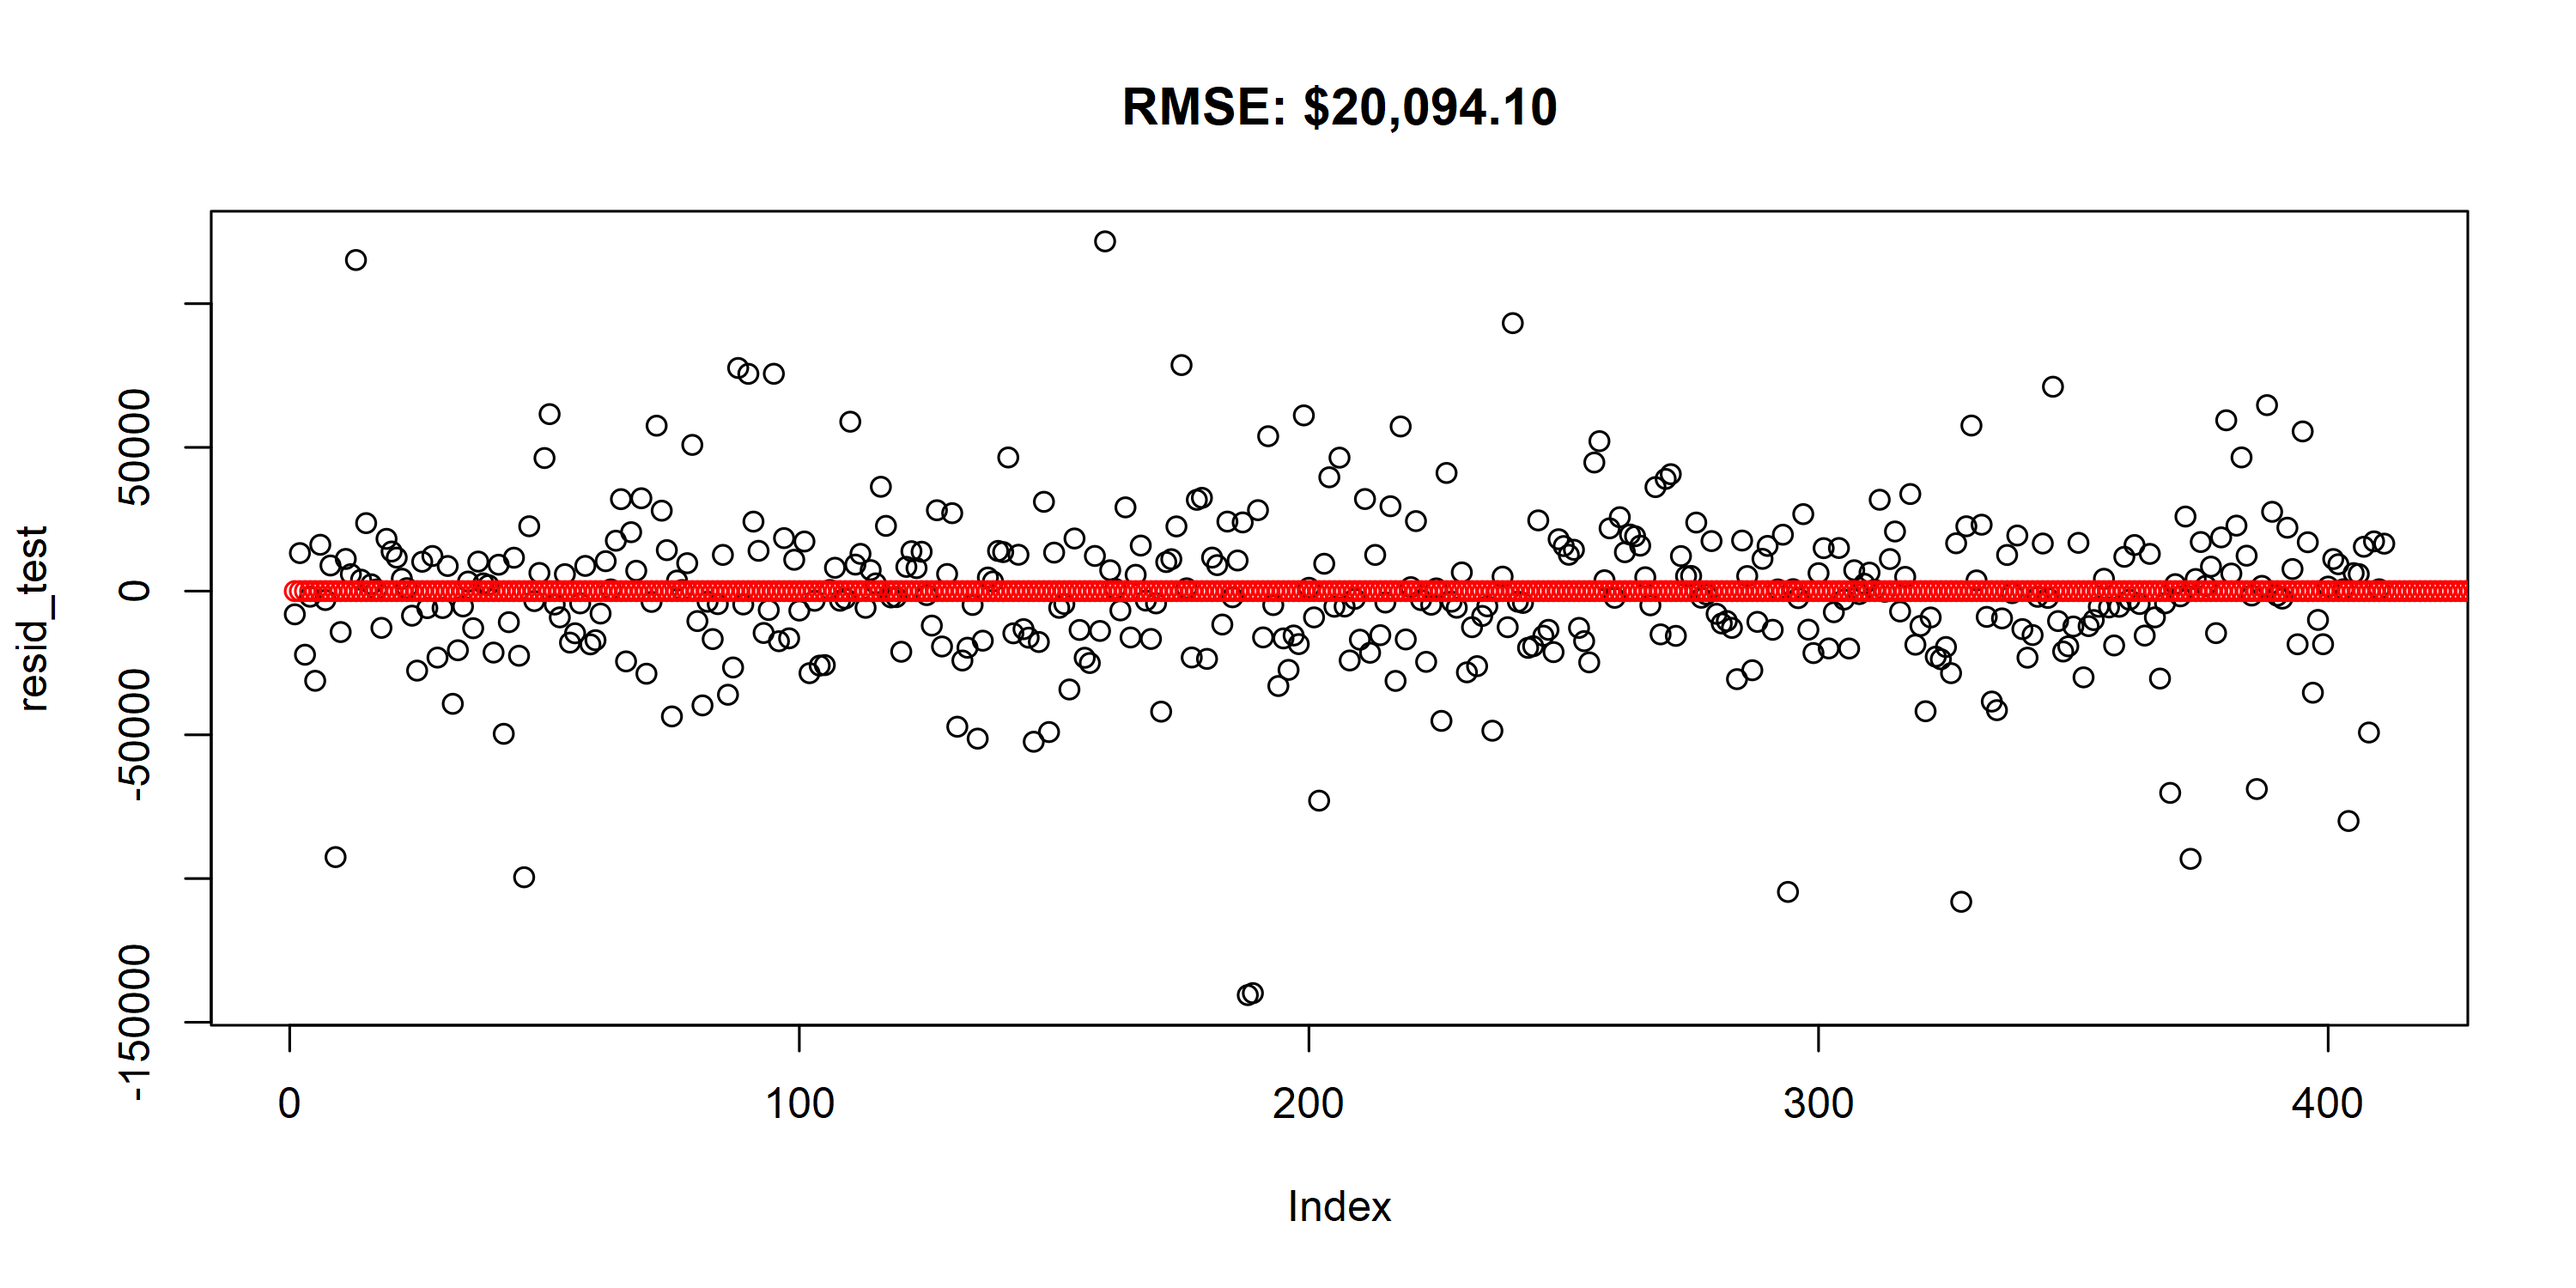
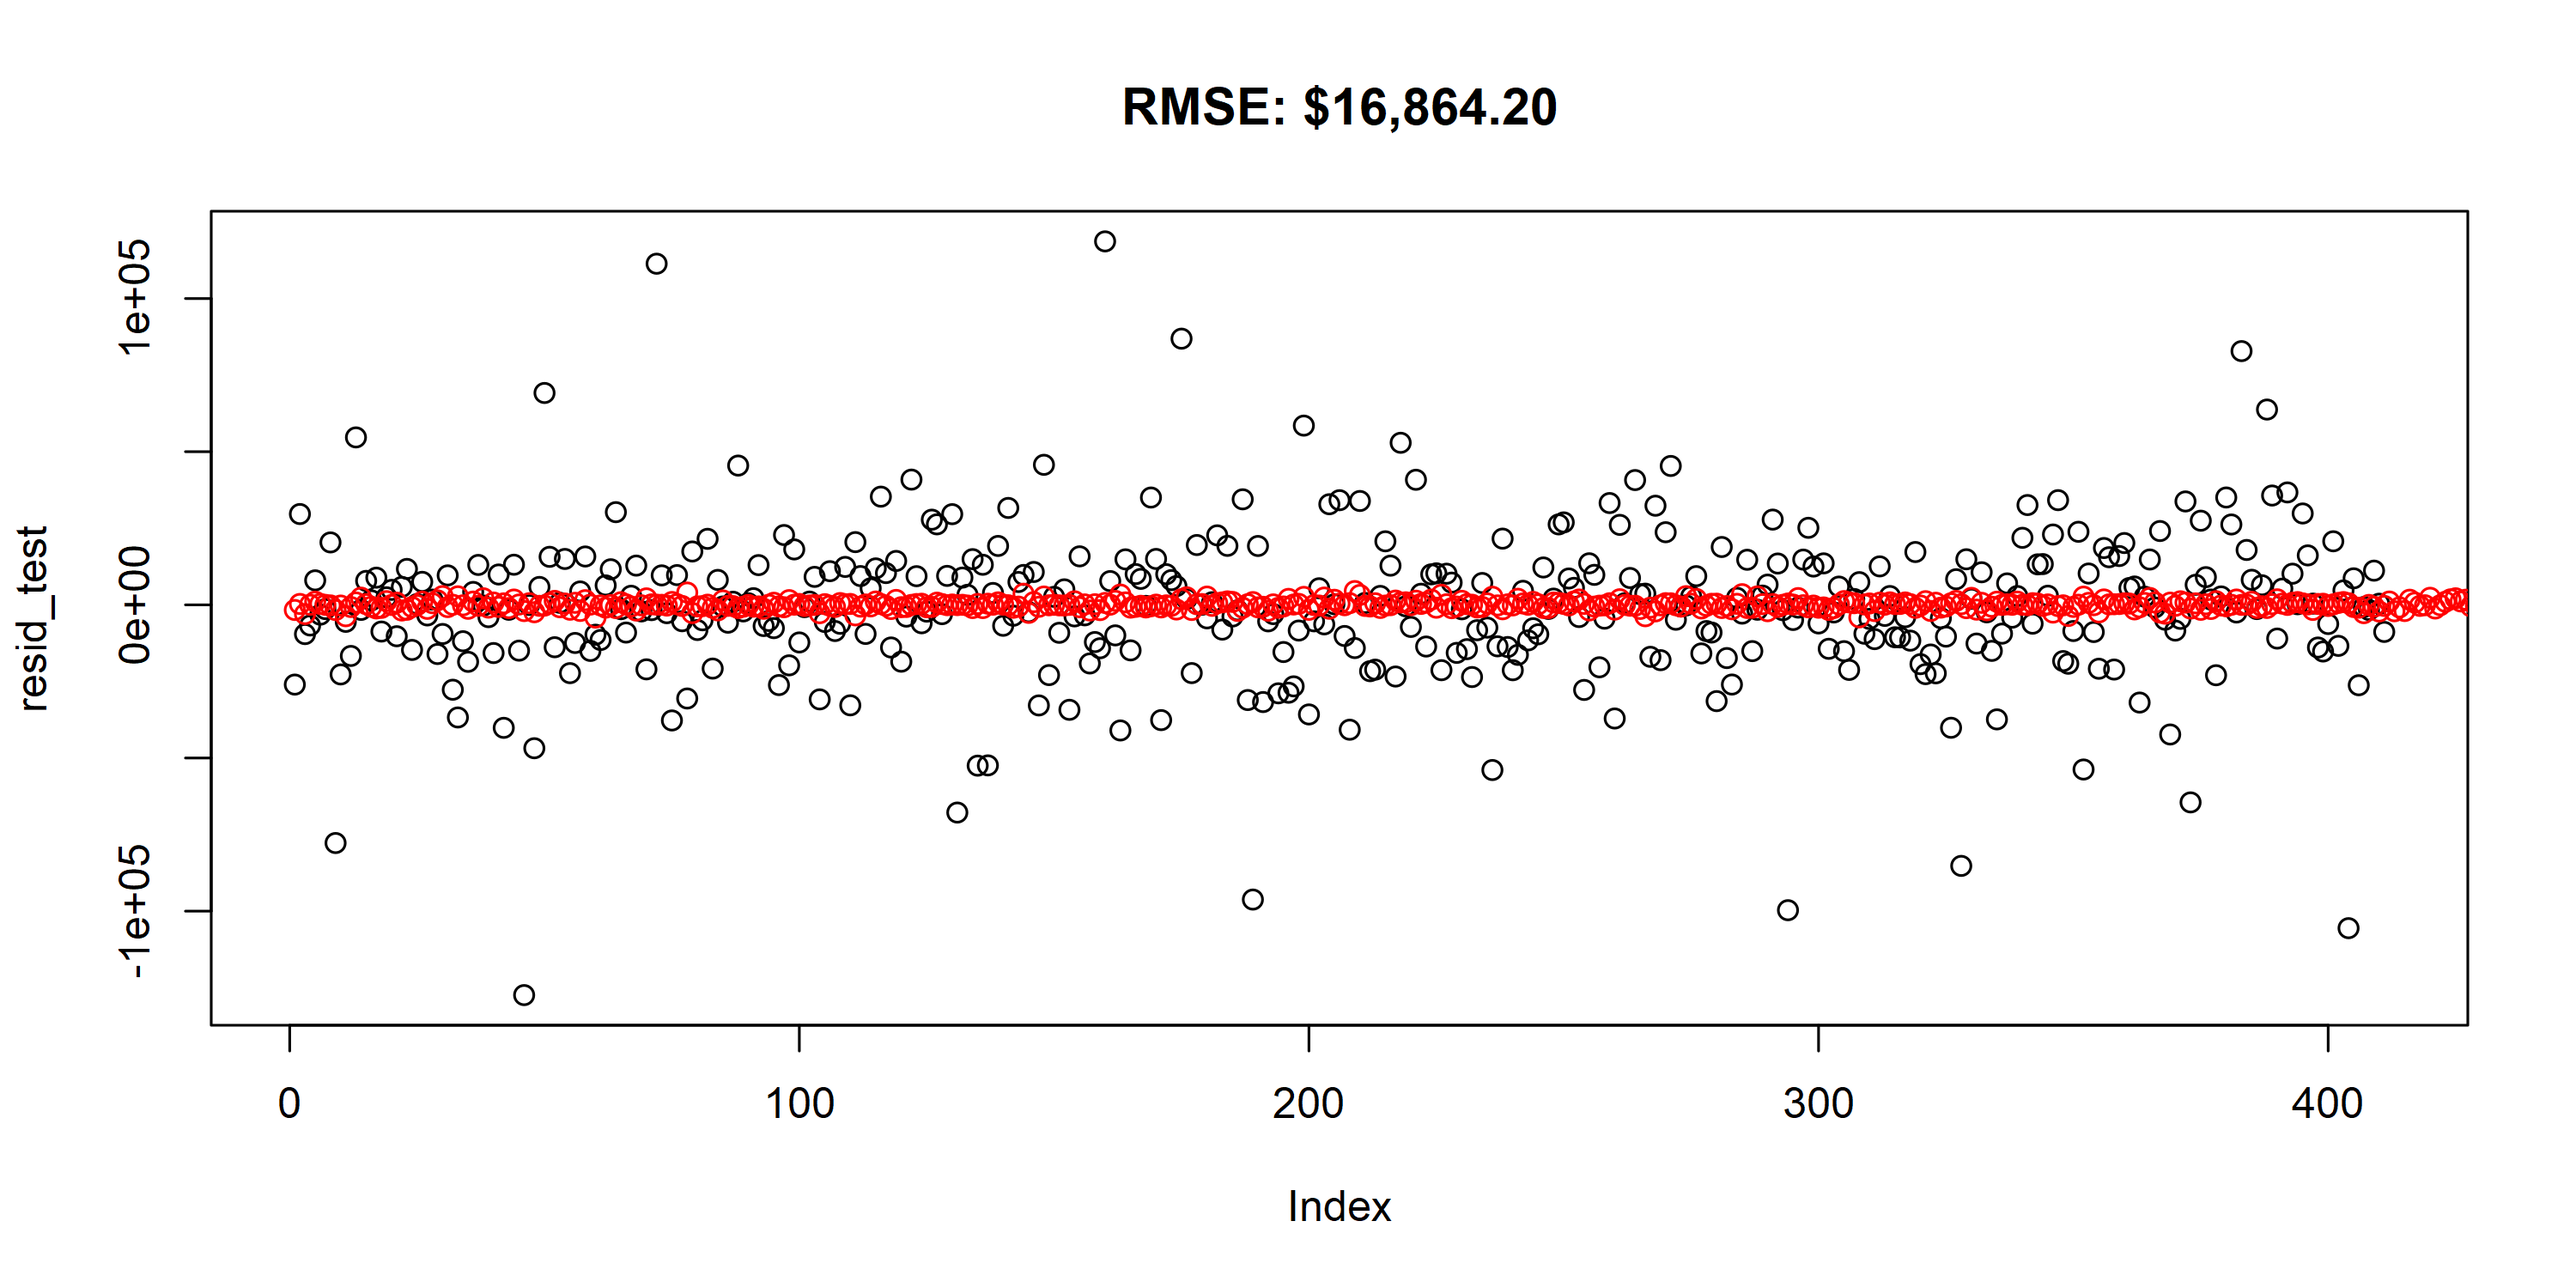
update xgb parameters and render rmd

diff --git a/submissions/alec_wong/readme.md b/submissions/alec_wong/readme.md
@@ -369,18 +369,6 @@ ggmap(ames_ia_map) +
   map(.x = n_points, .f = ~geom_text(data = .x , aes(x = mean(X), y = mean(Y), label = .y)))
 ```
 
-    Warning in min(x): no non-missing arguments to min; returning Inf
-
-    Warning in max(x): no non-missing arguments to max; returning -Inf
-
-    Warning in min(x): no non-missing arguments to min; returning Inf
-
-    Warning in max(x): no non-missing arguments to max; returning -Inf
-
-    Warning: Removed 10 rows containing missing values (geom_text).
-    
-    Warning: Removed 10 rows containing missing values (geom_text).
-
 ![](output/figures/unnamed-chunk-7-1.png)<!-- -->
 
 Evidently polygon definitions for the neighborhoods isn’t as easily
@@ -480,7 +468,7 @@ format the input properly.
 
 ``` r
 xgb = xgboost(data = mm_train, label = train_data$SalePrice, nrounds = 500, early_stopping_rounds = 10,
-              max_depth = 12, subsample = 0.5, verbose = 0)
+              max_depth = 3, subsample = 1, verbose = 0)
 ```
 
 ``` r
@@ -488,15 +476,15 @@ xgb
 ```
 
     ##### xgb.Booster
-    raw: 2.8 Mb 
+    raw: 322.6 Kb 
     call:
       xgb.train(params = params, data = dtrain, nrounds = nrounds, 
         watchlist = watchlist, verbose = verbose, print_every_n = print_every_n, 
         early_stopping_rounds = early_stopping_rounds, maximize = maximize, 
         save_period = save_period, save_name = save_name, xgb_model = xgb_model, 
-        callbacks = callbacks, max_depth = 12, subsample = 0.5)
+        callbacks = callbacks, max_depth = 3, subsample = 1)
     params (as set within xgb.train):
-      max_depth = "12", subsample = "0.5", silent = "1"
+      max_depth = "3", subsample = "1", silent = "1"
     xgb.attributes:
       best_iteration, best_msg, best_ntreelimit, best_score, niter
     callbacks:
@@ -504,18 +492,18 @@ xgb
       cb.early.stop(stopping_rounds = early_stopping_rounds, maximize = maximize, 
         verbose = verbose)
     # of features: 221 
-    niter: 411
-    best_iteration : 401 
-    best_ntreelimit : 401 
-    best_score : 0.020105 
+    niter: 500
+    best_iteration : 500 
+    best_ntreelimit : 500 
+    best_score : 1304.997 
     nfeatures : 221 
     evaluation_log:
-        iter   train_rmse
-           1 1.439834e+05
-           2 1.052095e+05
-    ---                  
-         410 2.054600e-02
-         411 2.110200e-02
+        iter train_rmse
+           1 143569.125
+           2 104766.320
+    ---                
+         499   1310.428
+         500   1304.997
 
 Additionally, run cross-validation to assess out-of-sample measurement
 error.
@@ -610,7 +598,7 @@ mm_test  = mm_data[data$train_test == 2,]
 
 ``` r
 xgb_fac = xgboost(data = mm_train, label = train_data_fac$SalePrice, nrounds = 500, early_stopping_rounds = 10,
-              max_depth = 12, subsample = 0.5, verbose = 0)
+              max_depth = 3, subsample = 1, verbose = 0)
 ```
 
 ``` r
@@ -618,15 +606,15 @@ xgb_fac
 ```
 
     ##### xgb.Booster
-    raw: 2.8 Mb 
+    raw: 321.8 Kb 
     call:
       xgb.train(params = params, data = dtrain, nrounds = nrounds, 
         watchlist = watchlist, verbose = verbose, print_every_n = print_every_n, 
         early_stopping_rounds = early_stopping_rounds, maximize = maximize, 
         save_period = save_period, save_name = save_name, xgb_model = xgb_model, 
-        callbacks = callbacks, max_depth = 12, subsample = 0.5)
+        callbacks = callbacks, max_depth = 3, subsample = 1)
     params (as set within xgb.train):
-      max_depth = "12", subsample = "0.5", silent = "1"
+      max_depth = "3", subsample = "1", silent = "1"
     xgb.attributes:
       best_iteration, best_msg, best_ntreelimit, best_score, niter
     callbacks:
@@ -634,18 +622,18 @@ xgb_fac
       cb.early.stop(stopping_rounds = early_stopping_rounds, maximize = maximize, 
         verbose = verbose)
     # of features: 242 
-    niter: 375
-    best_iteration : 365 
-    best_ntreelimit : 365 
-    best_score : 0.018202 
+    niter: 500
+    best_iteration : 500 
+    best_ntreelimit : 500 
+    best_score : 1305.62 
     nfeatures : 242 
     evaluation_log:
-        iter   train_rmse
-           1 1.435801e+05
-           2 1.054085e+05
-    ---                  
-         374 1.851700e-02
-         375 1.854300e-02
+        iter train_rmse
+           1 143593.875
+           2 104808.289
+    ---                
+         499   1308.033
+         500   1305.620
 
 ``` r
 cv_fac = xgb.cv(data = mm_train, label = train_data_fac$SalePrice, nrounds = 500, early_stopping_rounds = 10,
